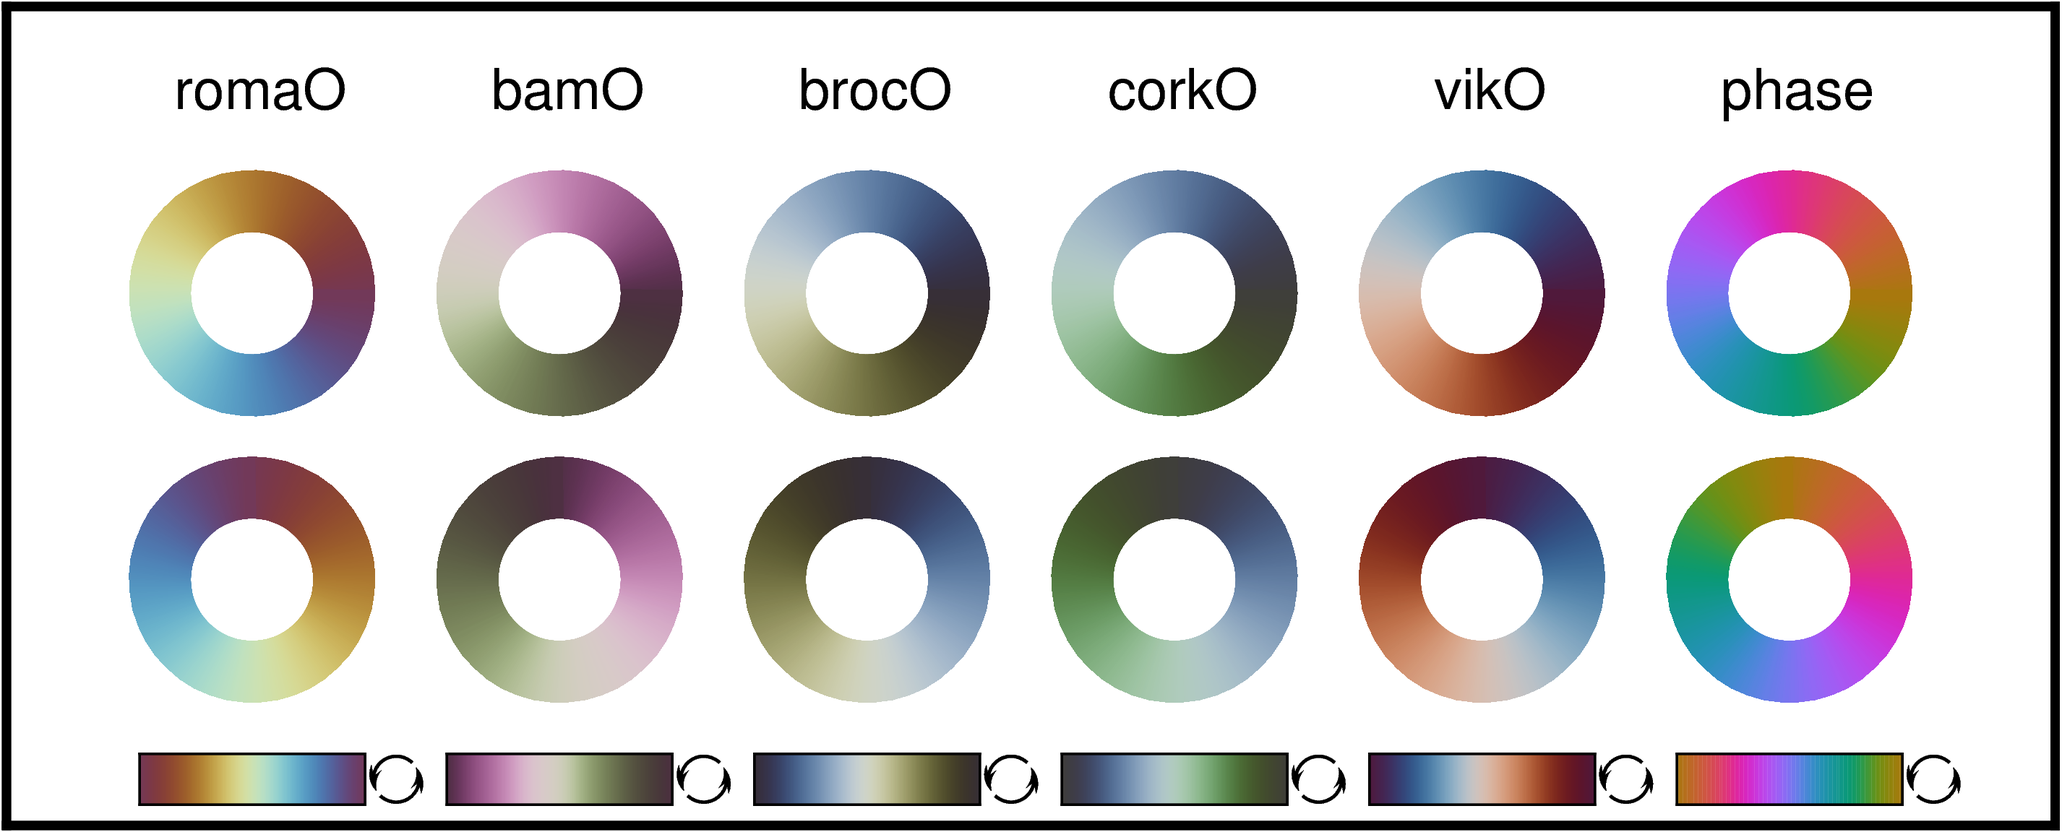
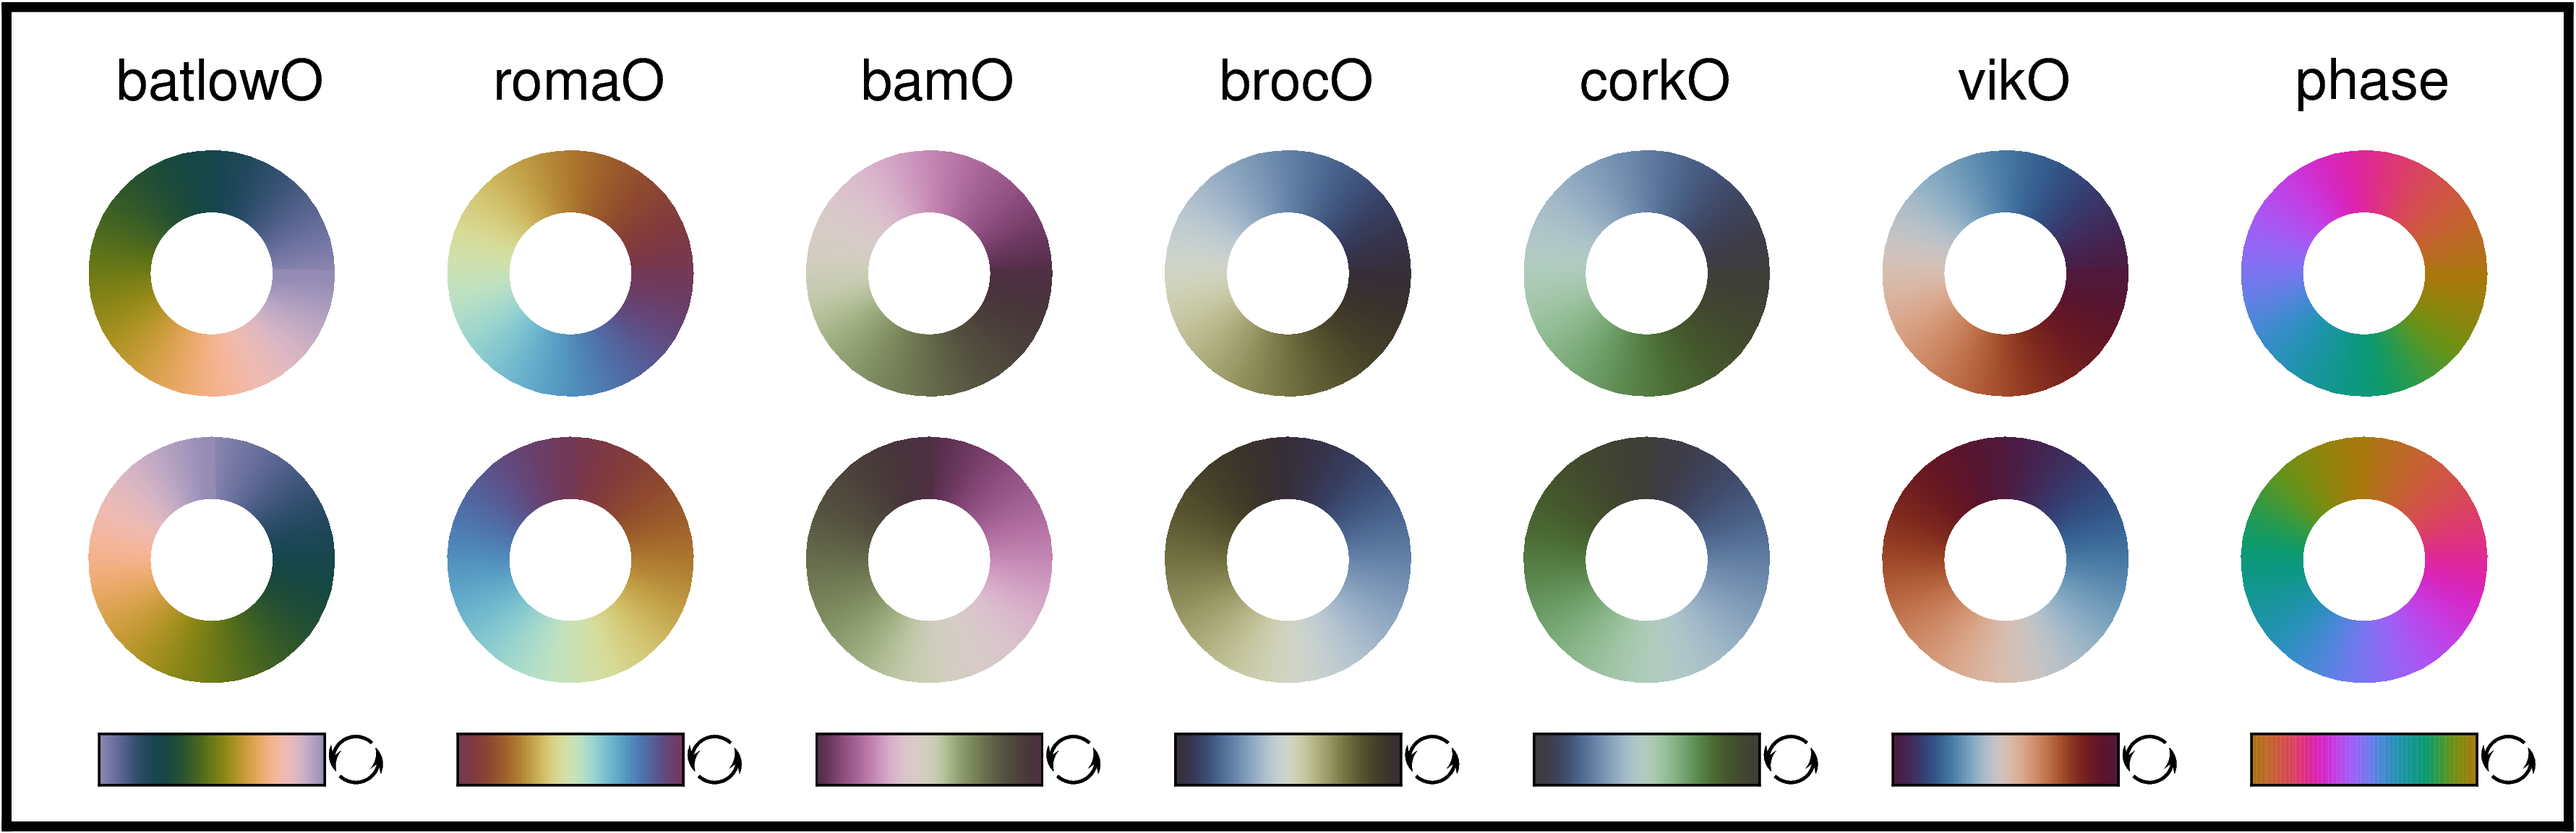
000_general_stuff/02_colorwheel: Add colormap "batlowO" from SCM 9.0.0 (#212)

diff --git a/000_general_stuff/02_colorwheel/colorwheel_pygmt.py b/000_general_stuff/02_colorwheel/colorwheel_pygmt.py
@@ -1,7 +1,13 @@
 # #############################################################################
 # Colorwheel for cyclic colormaps created with PyGMT
-# - Scientific colourmaps by Fabio Crameri: romaO, bamO, brocO, corkO, vikO
+# - Scientific colour maps by Fabio Crameri: batlowO, romaO, bamO, brocO, corkO, vikO
+#   https://www.fabiocrameri.ch/colourmaps/
+#   https://zenodo.org/records/24343380 (9.0.0)
+#   https://doi.org/10.5281/zenodo.1243862 (all)
 # - cmocean colormaps by Kristen M. Thyng: phase
+#   http://dx.doi.org/10.5670/oceanog.2016.66
+#   https://github.com/matplotlib/cmocean
+# 
 # >>> Be careful and check how measuring the angle is defined in your dataset <<<
 # Use the perspective parameter to take this into consideration
 # See also the example at the end of this script
@@ -9,10 +15,11 @@
 # History
 # - Created: 2024/05/15
 # - Updated: 2025/01/14
+# - Updated: 2026/11/18 - Add batlowO of SCM 9.0.0
 # -----------------------------------------------------------------------------
 # Versions
-# - PyGMT 0.18.0 -> https://www.pygmt.org
-# - GMT 6.6.0 -> https://www.generic-mapping-tools.org
+# - PyGMT 0.20.0 -> https://www.pygmt.org
+# - GMT 6.7.0 -> https://www.generic-mapping-tools.org
 # -----------------------------------------------------------------------------
 # Contact
 # - Author: Yvonne Fröhlich
@@ -101,29 +108,36 @@ def colorwheel(cmap, perspective, rho_min=1, rho_max=2.5, fig_instance=None):
 # Examples
 # -----------------------------------------------------------------------------
 fig = pygmt.Figure()
-fig.basemap(region=[-5, 5, -2, 2], projection="X10c/4c", frame=0)
+fig.basemap(region=[-5, 5, -1, 1], projection="X12.5c/4c", frame=0)
 
-fig.shift_origin(xshift="0.6c", yshift="2c")
-for cmap in ["romaO", "bamO", "brocO", "corkO", "vikO", "phase"]:
+fig.shift_origin(xshift="0.4c", yshift="2.1c")
+for cmap in ["batlowO.cpt", "romaO", "bamO", "brocO", "corkO", "vikO", "phase"]:
+    # anti-clockwise from horizontal
     colorwheel(
         cmap=cmap,
-        perspective=[90, -90],  # anti-clockwise from horizontal
+        perspective=[90, -90],
         rho_min=0.2,
         rho_max=0.6,
         fig_instance=fig,
     )
     fig.shift_origin(yshift="-1.4c")
+    # clockwise from vertical (-> backazimuth)
     colorwheel(
         cmap=cmap,
-        perspective=[180, 90],  # clockwise from vertical (-> backazimuth)
+        perspective=[180, 90],
         rho_min=0.2,
         rho_max=0.6,
         fig_instance=fig,
     )
-    fig.text(x=1, y=2.4, text=cmap, no_clip=True)
+    # horizontal
     pygmt.makecpt(cmap=cmap, series=[0, 360], cyclic=True)
     fig.colorbar(cmap=True, position="jBC+o0c/-0.5c+w1.1c/0.25c+h", frame=0)
-    fig.shift_origin(xshift="1.5c", yshift="1.4c")
+    
+    cmap_text = cmap
+    if cmap == "batlowO.cpt": cmap_text = "batlowO"
+    fig.text(x=1, y=2.35, text=cmap_text, no_clip=True)
+    
+    fig.shift_origin(xshift="1.75c", yshift="1.4c")
 
 fig.show()
 # fig.savefig(fname="colorwheel_all_cmaps.png", dpi=720)

diff --git a/000_general_stuff/README.md b/000_general_stuff/README.md
@@ -1,6 +1,6 @@
 # 000_general_stuff
 
-_Recommended versions_: PyGMT 0.18.0, GMT 6.6.0
+_Recommended versions_: PyGMT 0.18.0 - 0.20.0, GMT 6.6.0
 
 | **[01_custom_symbols](../000_general_stuff/01_custom_symbols/custom_symbols.py)** | **[02_colorwheel](../000_general_stuff/02_colorwheel/colorwheel_pygmt.py)** | **[03_cb_font_scaling](../000_general_stuff/03_cb_font_scaling/cb_font_scaling.py)** | **[05_greek_letters](../000_general_stuff/05_greek_letters/greek_letters.py)** |
 | :---: | :---: | :---: | :---: |
